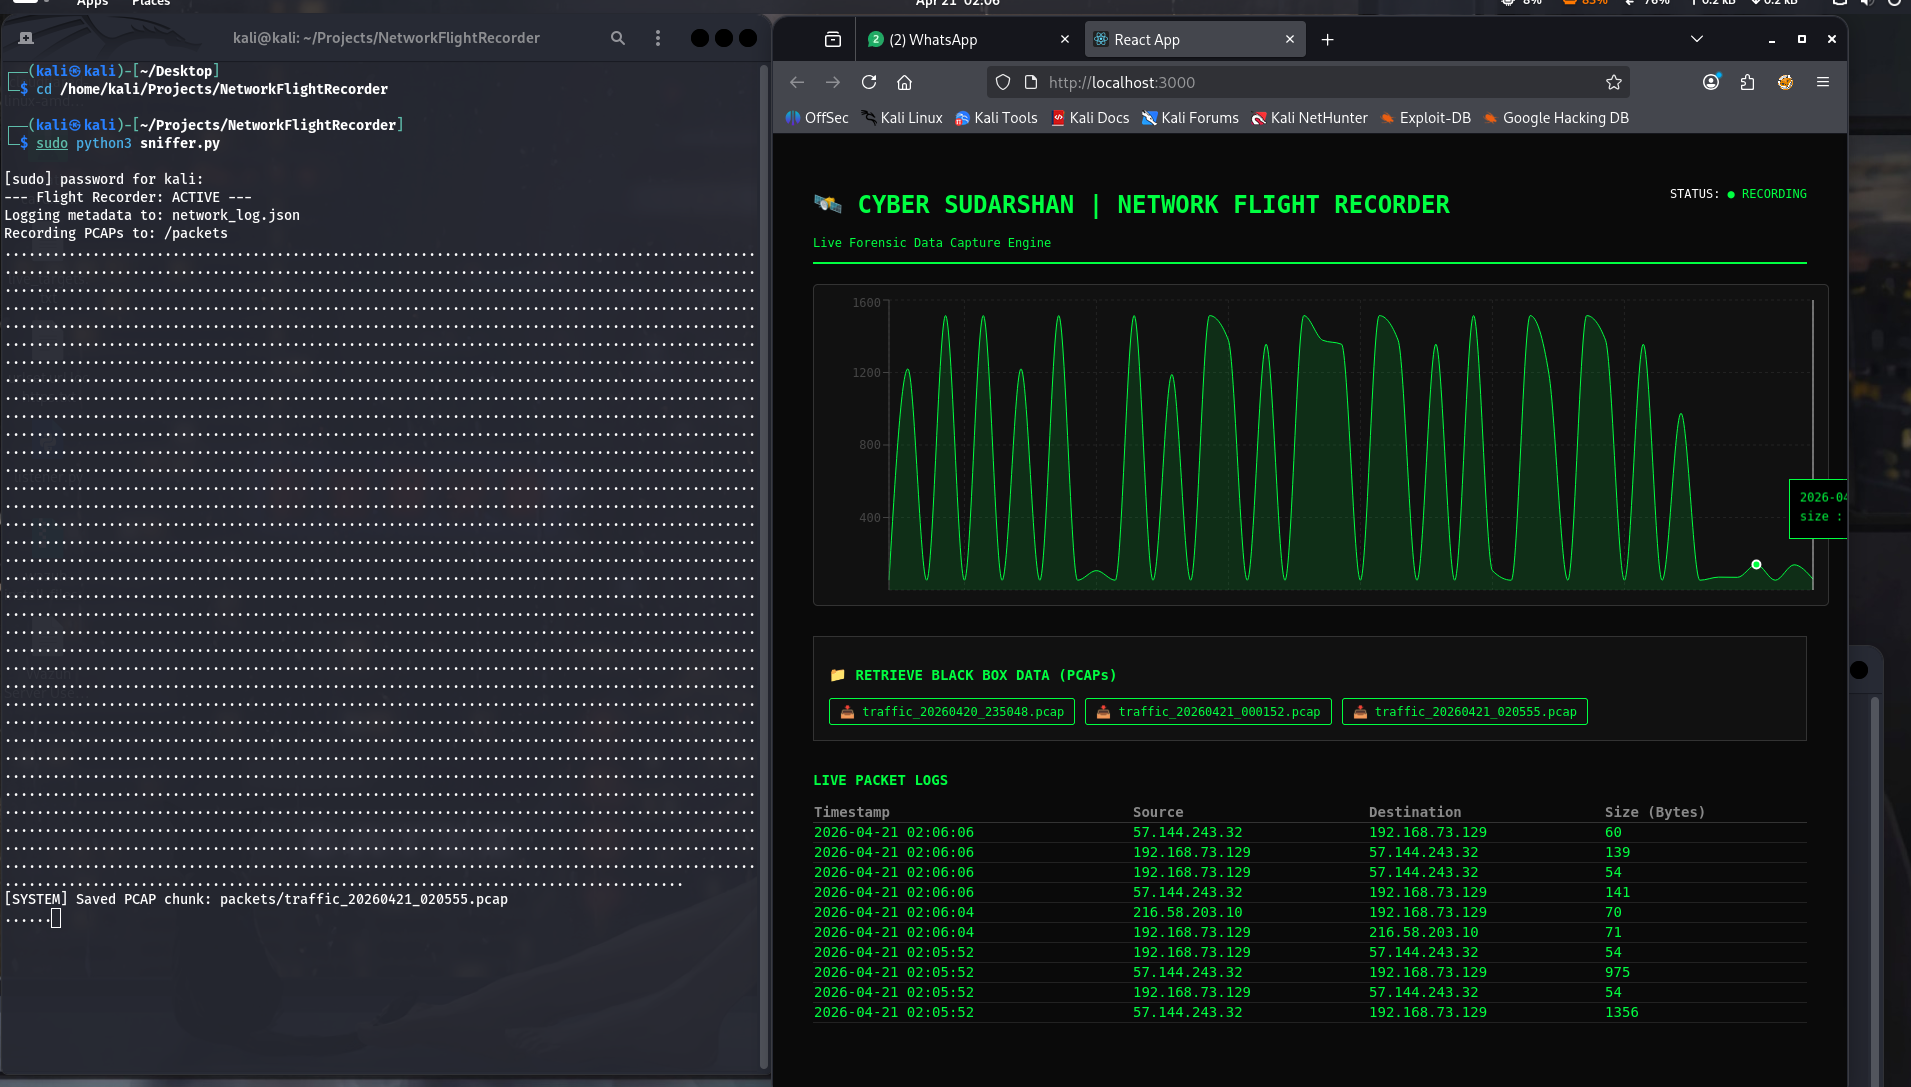
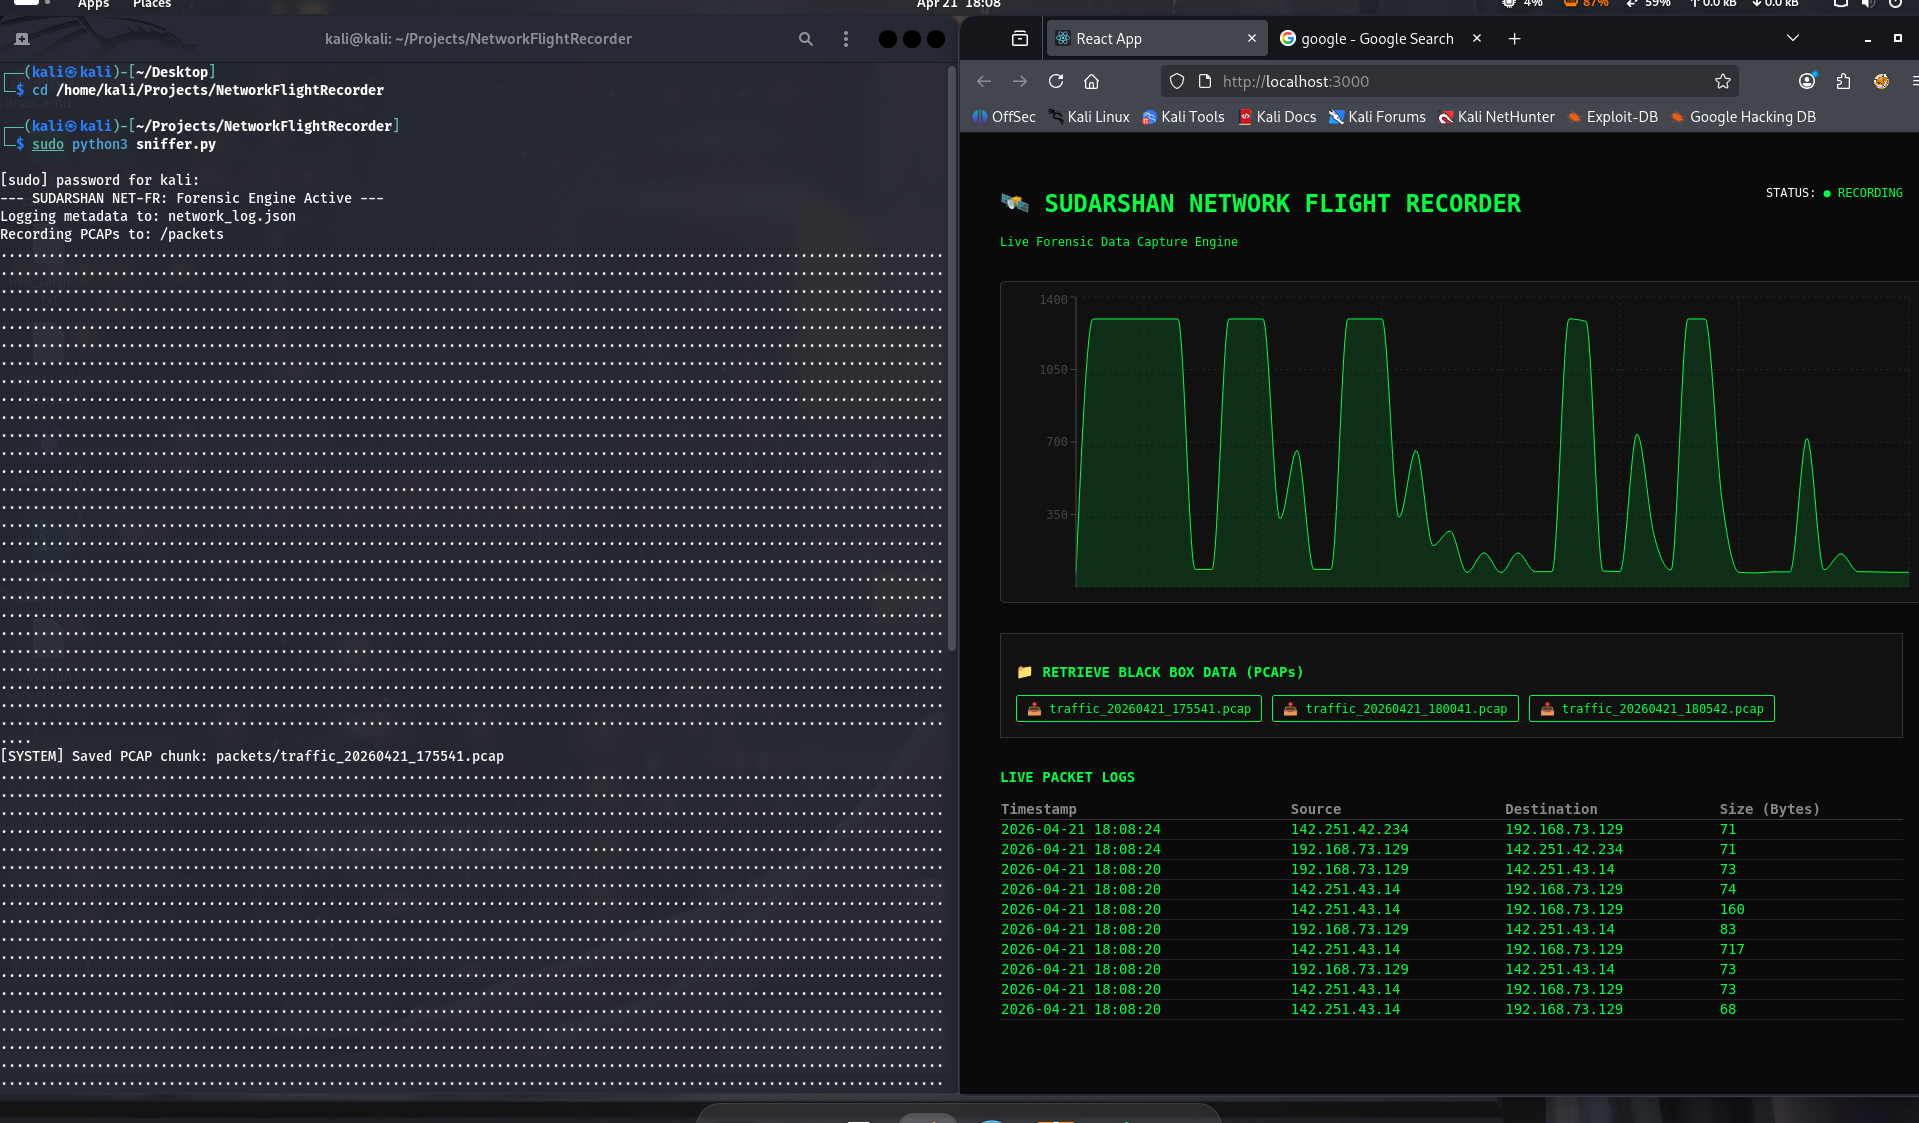
feat: finalized Sudarshan Net-FR branding, updated core logic, and refreshed forensic screenshots

diff --git a/dashboard/src/App.js b/dashboard/src/App.js
@@ -27,9 +27,9 @@ function App() {
 
   return (
     <div style={{ padding: '40px', backgroundColor: '#0a0a0a', color: '#00ff41', minHeight: '100vh', fontFamily: 'monospace' }}>
-      <header style={{ borderBottom: '2px solid #00ff41', marginBottom: '20px', display: 'flex', justifyContent: 'space-between' }}>
+      <header style={{ borderBottom: '2px solidrgb(255, 174, 0)', marginBottom: '20px', display: 'flex', justifyContent: 'space-between' }}>
         <div>
-          <h1>🛰 CYBER SUDARSHAN | NETWORK FLIGHT RECORDER</h1>
+          <h1>🛰 SUDARSHAN NETWORK FLIGHT RECORDER</h1>
           <p>Live Forensic Data Capture Engine</p>
         </div>
         <div style={{ textAlign: 'right' }}>

diff --git a/sniffer.py b/sniffer.py
@@ -63,7 +63,7 @@ def process_packet(packet):
 recorder_thread = Thread(target=save_chunk, daemon=True)
 recorder_thread.start()
 
-print(f"--- Flight Recorder: ACTIVE ---")
+print(f"--- SUDARSHAN NET-FR: Forensic Engine Active ---")
 print(f"Logging metadata to: {METADATA_FILE}")
 print(f"Recording PCAPs to: /{STORAGE_DIR}")
 

diff --git a/README.md b/README.md
@@ -1,4 +1,4 @@
-# 🛡 Cyber Sudarshan: Network Flight Recorder
+# 🛡 Sudarshan Network Flight Recorder
 
 > *"A Black Box for your computer network."*
 
@@ -10,7 +10,7 @@ A full-stack **Network Detection and Response (NDR)** tool that turns raw networ
 
 ## 📌 What Is This?
 
-Just like an airplane's flight recorder captures everything before a crash, **Cyber Sudarshan** records every digital conversation on your network — 24/7 — so you always have evidence ready when something goes wrong.
+Just like an airplane's flight recorder captures everything before a crash, **Sudarshan Net-FR** records every digital conversation on your network — 24/7 — so you always have evidence ready when something goes wrong.
 
 It solves the core problem with tools like Wireshark: **Wireshark crashes after hours of use** because it stores everything in RAM. This tool uses a rolling buffer system so you always have the *last hour* of raw packet evidence on disk, without ever running out of storage.
 
@@ -161,9 +161,9 @@ Open **http://localhost:3000** in your browser. The live graph will begin popula
 
 ---
 
-## 🔬 Cyber Sudarshan vs Wireshark
+## 🔬 Sudarshan Net-FR vs Wireshark
 
-| | Wireshark | Cyber Sudarshan |
+| | Wireshark | Sudarshan Net-FR |
 |---|---|---|
 | **Long-term monitoring** | ❌ Crashes — stores all data in RAM | ✅ Rolling buffer, auto disk management |
 | **Storage management** | ❌ Manual | ✅ Automatic — oldest files self-delete |
@@ -171,7 +171,7 @@ Open **http://localhost:3000** in your browser. The live graph will begin popula
 | **At-a-glance analysis** | ❌ Raw packet dump, requires expertise | ✅ Live graph + metadata table |
 | **Deep forensic analysis** | ✅ Best-in-class | ✅ Export PCAP → open in Wireshark |
 
-*Both tools are complementary. Cyber Sudarshan handles long-term detection; Wireshark handles deep forensic analysis.*
+*Both tools are complementary. Sudarshan Net-FR handles long-term detection; Wireshark handles deep forensic analysis.*
 
 ![Wireshark Analysis](assets/screenshots/05_wireshark_analysis.png)
 
